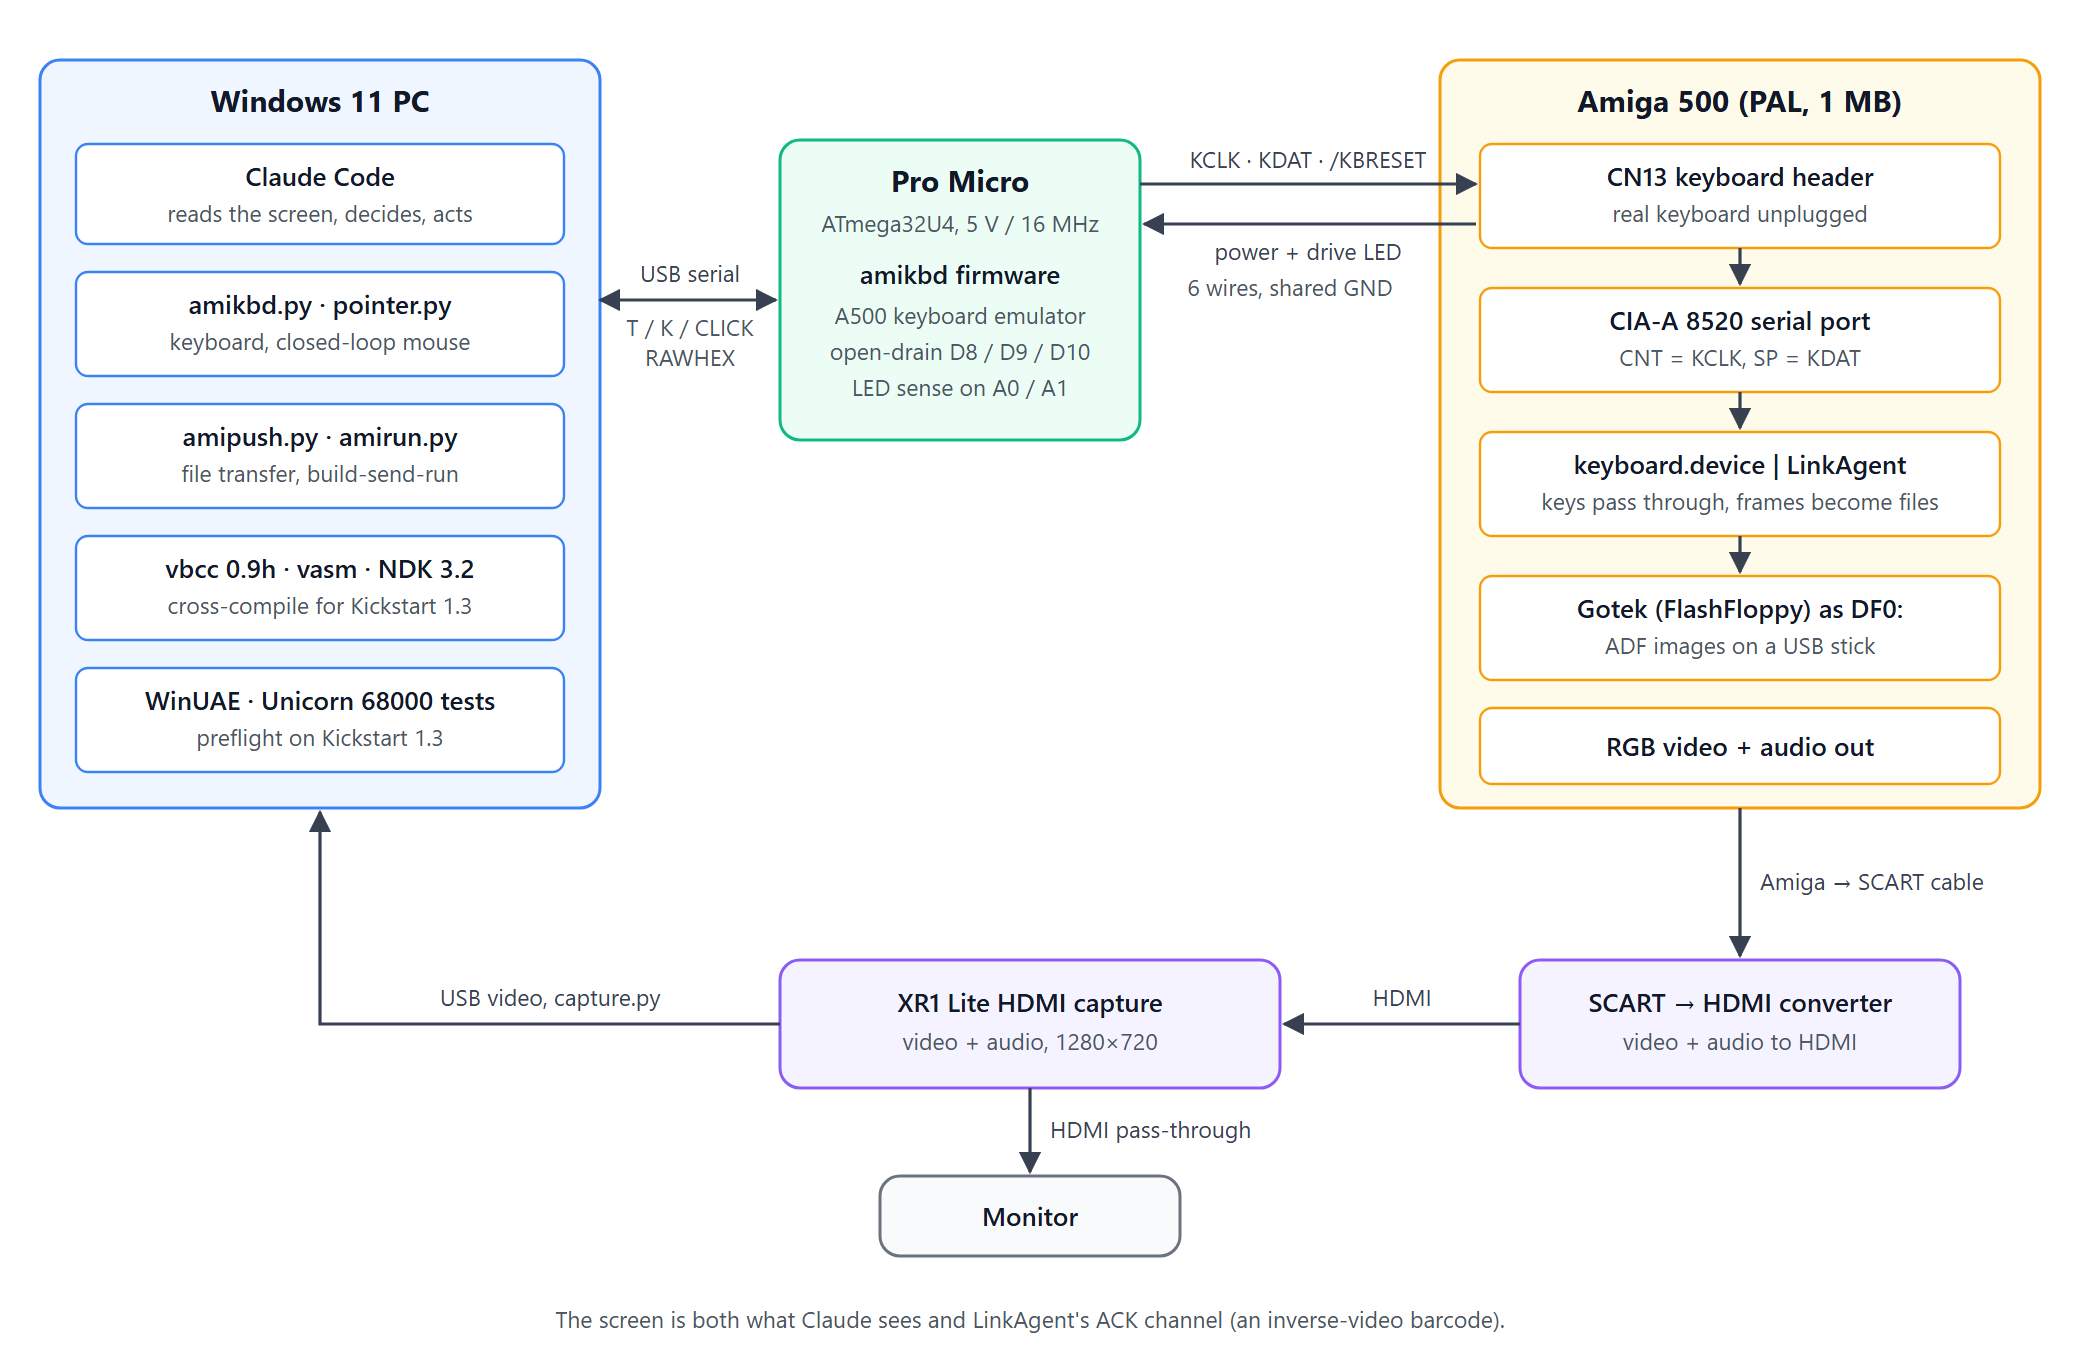
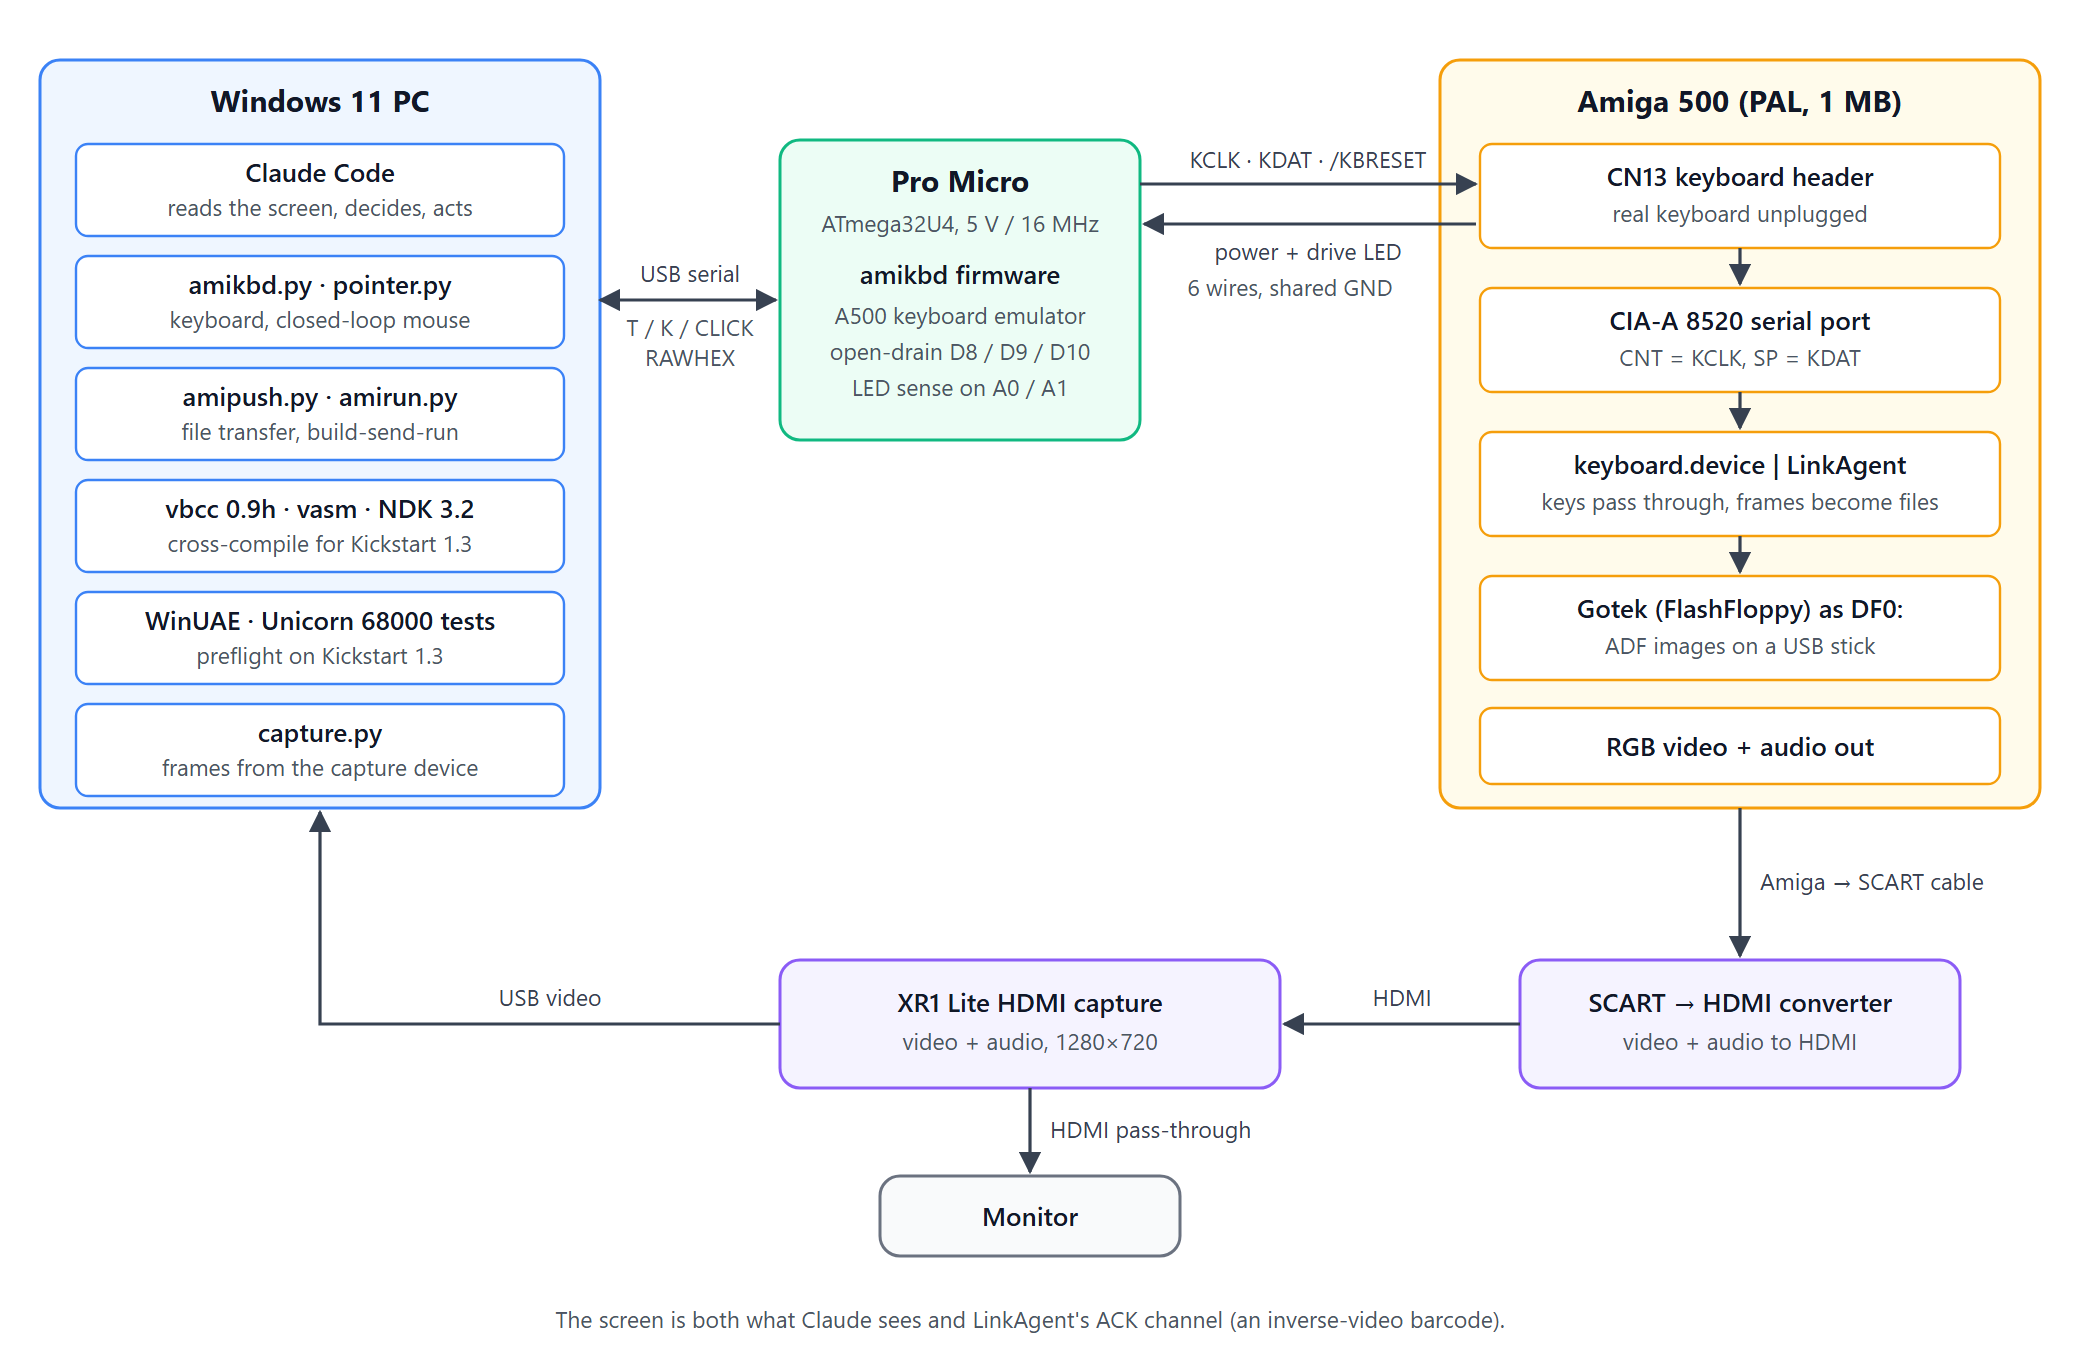
Show capture.py in the architecture diagram; quieter capture mode fallback
capture.py now reports a refused 1920x1080@30 request as a fallback to the
device's default mode instead of printing ffmpeg's error output, and prints
ffmpeg's errors only when no mode works.

Changed region(s): [[0.0312, 0.1228, 0.2812, 0.5833], [0.2188, 0.7061, 0.3125, 0.7368]]

diff --git a/tools/capture.py b/tools/capture.py
@@ -77,9 +77,9 @@ class Grabber:
             self.proc.kill()
             self.proc.wait()
             time.sleep(0.2)
-            err = "\n".join(self.errors) or "no frames"
-            print(f"capture: {self.device!r} at {size or 'its default mode'} failed: {err}", flush=True)
-        sys.exit("capture: could not read from the device")
+            if size:
+                print(f"capture: {size} at 30 fps not accepted, using the device's default mode", flush=True)
+        sys.exit(f"capture: could not read from {self.device!r}: " + ("\n".join(self.errors) or "no frames"))
 
     @staticmethod
     def log(proc, errors):
